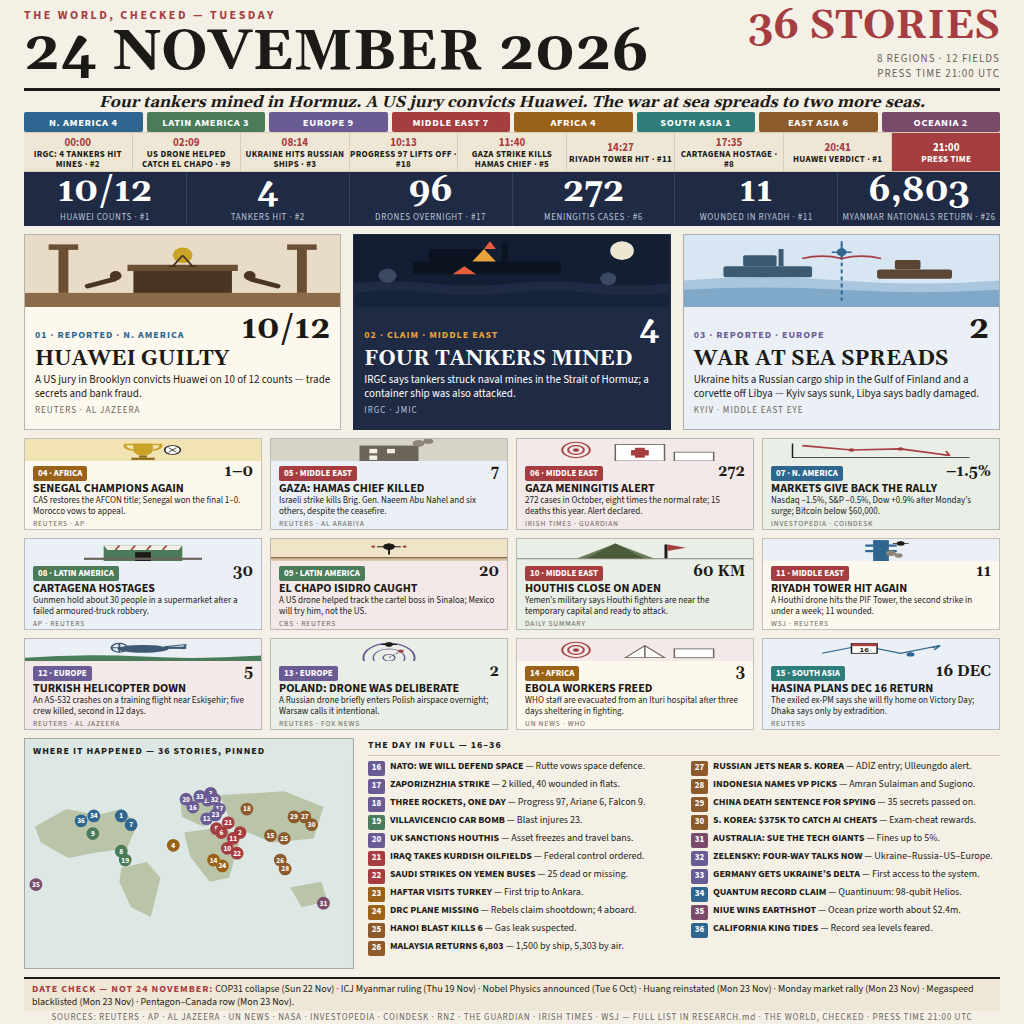
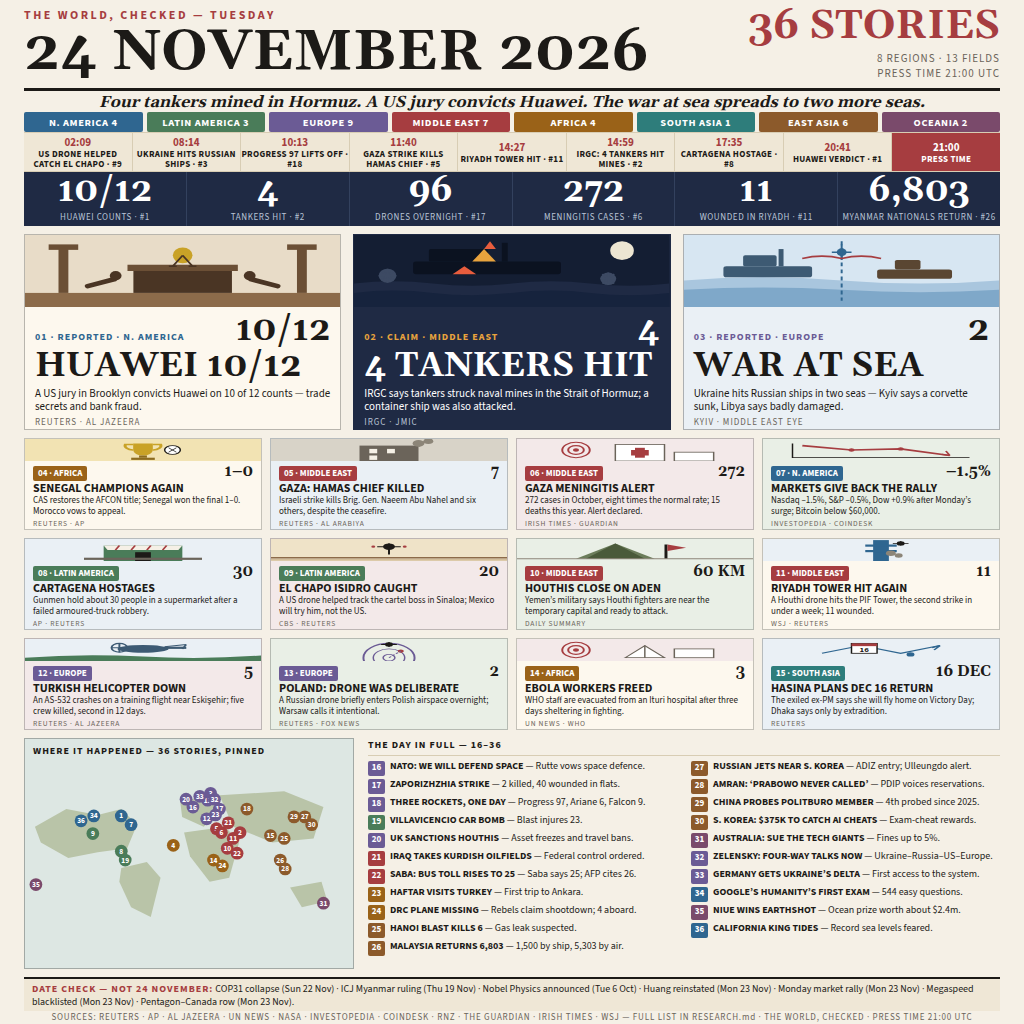
news-image-20261124 V1 PUTARAN 1: fix crosscheck FIX_FIRST — 4 stories re-dated to 24 Nov primaries, strip 14:59, 13 fields, lead headlines to 34px floor

diff --git a/render.html b/render.html
@@ -47,10 +47,10 @@ body{background:#fff}
 .tag{font-size:10px;font-weight:700;letter-spacing:1px}
 .tag.na{color:#2F6690}.tag.me{color:#A63D40}.tag.eu{color:#6B5B95}
 .dark .tag{color:#E8A33D}
-.lbig{font-size:32px;font-weight:700;line-height:1}
-.lh{font-family:'Gelasio',serif;font-weight:700;font-size:21px;line-height:1.05;margin-top:3px}
-.ls{font-size:11px;line-height:1.25;margin-top:3px}
-.lsrc{font-size:9px;color:#6B645A;letter-spacing:1px;margin-top:3px}
+.lbig{font-size:34px;font-weight:700;line-height:1}
+.lh{font-family:'Gelasio',serif;font-weight:700;font-size:34px;line-height:1.05;margin-top:2px}
+.ls{font-size:11px;line-height:1.25;margin-top:2px}
+.lsrc{font-size:9px;color:#6B645A;letter-spacing:1px;margin-top:2px}
 .dark .lsrc{color:#B9C4D6}
 /* feature grid */
 .grid{height:292px;display:grid;grid-template-columns:repeat(4,1fr);grid-template-rows:repeat(3,1fr);gap:8px;margin-top:8px}
@@ -86,7 +86,7 @@ body{background:#fff}
 <body><div class="sheet">
 <div class="head">
   <div><div class="kick">THE WORLD, CHECKED &mdash; TUESDAY</div><div class="dateline">24 NOVEMBER 2026</div></div>
-  <div class="right"><div class="storycount num">36 STORIES</div><div class="meta">8 REGIONS &middot; 12 FIELDS<br>PRESS TIME 21:00 UTC</div></div>
+  <div class="right"><div class="storycount num">36 STORIES</div><div class="meta">8 REGIONS &middot; 13 FIELDS<br>PRESS TIME 21:00 UTC</div></div>
 </div>
 <div class="tension">Four tankers mined in Hormuz. A US jury convicts Huawei. The war at sea spreads to two more seas.</div>
 <div class="regions">
@@ -100,12 +100,12 @@ body{background:#fff}
   <div class="reg" style="background:#7A4A6B">OCEANIA 2</div>
 </div>
 <div class="strip">
-  <div class="tl"><b>00:00</b><span>IRGC: 4 TANKERS HIT MINES &middot; #2</span></div>
   <div class="tl"><b>02:09</b><span>US DRONE HELPED CATCH EL CHAPO &middot; #9</span></div>
   <div class="tl"><b>08:14</b><span>UKRAINE HITS RUSSIAN SHIPS &middot; #3</span></div>
   <div class="tl"><b>10:13</b><span>PROGRESS 97 LIFTS OFF &middot; #18</span></div>
   <div class="tl"><b>11:40</b><span>GAZA STRIKE KILLS HAMAS CHIEF &middot; #5</span></div>
   <div class="tl"><b>14:27</b><span>RIYADH TOWER HIT &middot; #11</span></div>
+  <div class="tl"><b>14:59</b><span>IRGC: 4 TANKERS HIT MINES &middot; #2</span></div>
   <div class="tl"><b>17:35</b><span>CARTAGENA HOSTAGE &middot; #8</span></div>
   <div class="tl"><b>20:41</b><span>HUAWEI VERDICT &middot; #1</span></div>
   <div class="tl press"><b>21:00</b><span>PRESS TIME</span></div>
@@ -137,7 +137,7 @@ body{background:#fff}
     </svg></div>
     <div class="lbody">
       <div class="lrow"><span class="tag na">01 &middot; REPORTED &middot; N. AMERICA</span><span class="lbig num">10/12</span></div>
-      <div class="lh">HUAWEI GUILTY</div>
+      <div class="lh">HUAWEI 10/12</div>
       <div class="ls">A US jury in Brooklyn convicts Huawei on 10 of 12 counts &mdash; trade secrets and bank fraud.</div>
       <div class="lsrc">REUTERS &middot; AL JAZEERA</div>
     </div>
@@ -161,7 +161,7 @@ body{background:#fff}
     </svg></div>
     <div class="lbody">
       <div class="lrow"><span class="tag me">02 &middot; CLAIM &middot; MIDDLE EAST</span><span class="lbig num">4</span></div>
-      <div class="lh">FOUR TANKERS MINED</div>
+      <div class="lh">4 TANKERS HIT</div>
       <div class="ls">IRGC says tankers struck naval mines in the Strait of Hormuz; a container ship was also attacked.</div>
       <div class="lsrc">IRGC &middot; JMIC</div>
     </div>
@@ -183,8 +183,8 @@ body{background:#fff}
     </svg></div>
     <div class="lbody">
       <div class="lrow"><span class="tag eu">03 &middot; REPORTED &middot; EUROPE</span><span class="lbig num">2</span></div>
-      <div class="lh">WAR AT SEA SPREADS</div>
-      <div class="ls">Ukraine hits a Russian cargo ship in the Gulf of Finland and a corvette off Libya &mdash; Kyiv says sunk, Libya says badly damaged.</div>
+      <div class="lh">WAR AT SEA</div>
+      <div class="ls">Ukraine hits Russian ships in two seas &mdash; Kyiv says a corvette sunk, Libya says badly damaged.</div>
       <div class="lsrc">KYIV &middot; MIDDLE EAST EYE</div>
     </div>
   </div>
@@ -336,7 +336,7 @@ body{background:#fff}
         <div class="item"><span class="n" style="background:#4A7C59">19</span><div class="t"><b>VILLAVICENCIO CAR BOMB</b> &mdash; Blast injures 23.</div></div>
         <div class="item"><span class="n" style="background:#6B5B95">20</span><div class="t"><b>UK SANCTIONS HOUTHIS</b> &mdash; Asset freezes and travel bans.</div></div>
         <div class="item"><span class="n" style="background:#A63D40">21</span><div class="t"><b>IRAQ TAKES KURDISH OILFIELDS</b> &mdash; Federal control ordered.</div></div>
-        <div class="item"><span class="n" style="background:#A63D40">22</span><div class="t"><b>SAUDI STRIKES ON YEMEN BUSES</b> &mdash; 25 dead or missing.</div></div>
+        <div class="item"><span class="n" style="background:#A63D40">22</span><div class="t"><b>SABA: BUS TOLL RISES TO 25</b> &mdash; Saba says 25; AFP cites 26.</div></div>
         <div class="item"><span class="n" style="background:#9A6218">23</span><div class="t"><b>HAFTAR VISITS TURKEY</b> &mdash; First trip to Ankara.</div></div>
         <div class="item"><span class="n" style="background:#9A6218">24</span><div class="t"><b>DRC PLANE MISSING</b> &mdash; Rebels claim shootdown; 4 aboard.</div></div>
         <div class="item"><span class="n" style="background:#8C5A2B">25</span><div class="t"><b>HANOI BLAST KILLS 6</b> &mdash; Gas leak suspected.</div></div>
@@ -344,13 +344,13 @@ body{background:#fff}
       </div>
       <div class="col">
         <div class="item"><span class="n" style="background:#8C5A2B">27</span><div class="t"><b>RUSSIAN JETS NEAR S. KOREA</b> &mdash; ADIZ entry; Ulleungdo alert.</div></div>
-        <div class="item"><span class="n" style="background:#8C5A2B">28</span><div class="t"><b>INDONESIA NAMES VP PICKS</b> &mdash; Amran Sulaiman and Sugiono.</div></div>
-        <div class="item"><span class="n" style="background:#8C5A2B">29</span><div class="t"><b>CHINA DEATH SENTENCE FOR SPYING</b> &mdash; 35 secrets passed on.</div></div>
+        <div class="item"><span class="n" style="background:#8C5A2B">28</span><div class="t"><b>AMRAN: &lsquo;PRABOWO NEVER CALLED&rsquo;</b> &mdash; PDIP voices reservations.</div></div>
+        <div class="item"><span class="n" style="background:#8C5A2B">29</span><div class="t"><b>CHINA PROBES POLITBURO MEMBER</b> &mdash; 4th probed since 2025.</div></div>
         <div class="item"><span class="n" style="background:#8C5A2B">30</span><div class="t"><b>S. KOREA: $375K TO CATCH AI CHEATS</b> &mdash; Exam-cheat rewards.</div></div>
         <div class="item"><span class="n" style="background:#7A4A6B">31</span><div class="t"><b>AUSTRALIA: SUE THE TECH GIANTS</b> &mdash; Fines up to 5%.</div></div>
         <div class="item"><span class="n" style="background:#6B5B95">32</span><div class="t"><b>ZELENSKY: FOUR-WAY TALKS NOW</b> &mdash; Ukraine&ndash;Russia&ndash;US&ndash;Europe.</div></div>
         <div class="item"><span class="n" style="background:#6B5B95">33</span><div class="t"><b>GERMANY GETS UKRAINE&rsquo;S DELTA</b> &mdash; First access to the system.</div></div>
-        <div class="item"><span class="n" style="background:#2F6690">34</span><div class="t"><b>QUANTUM RECORD CLAIM</b> &mdash; Quantinuum: 98-qubit Helios.</div></div>
+        <div class="item"><span class="n" style="background:#2F6690">34</span><div class="t"><b>GOOGLE&rsquo;S HUMANITY&rsquo;S FIRST EXAM</b> &mdash; 544 easy questions.</div></div>
         <div class="item"><span class="n" style="background:#7A4A6B">35</span><div class="t"><b>NIUE WINS EARTHSHOT</b> &mdash; Ocean prize worth about $2.4m.</div></div>
         <div class="item"><span class="n" style="background:#2F6690">36</span><div class="t"><b>CALIFORNIA KING TIDES</b> &mdash; Record sea levels feared.</div></div>
       </div>

diff --git a/RESEARCH.md b/RESEARCH.md
@@ -26,11 +26,11 @@ Monday's rally (Nasdaq −1.5%, Bitcoin below $60,000). Press time: 21:00 UTC.
 ## Breadth
 36 stories: 3 leads + 12 feature cards + 21 numbered list items. 8 regions
 (N. America 4, Latin America 3, Europe 9, Middle East 7, Africa 4, South
-Asia 1, East Asia 6, Oceania 2) and 12 fields (War 10, Politics 7, Courts 3,
-Business 1, Tech 3, Space 2, Health 2, Climate 2, Sport 1, Disaster 3,
-Crime 3, Migration 1). Numbers band: 10/12 (#1), 4 (#2), 96 drones overnight
+Asia 1, East Asia 6, Oceania 2) and 13 fields (War 10, Politics 7, Courts 1,
+Business 1, Tech 3, Space 1, Health 2, Climate 2, Sport 1, Disaster 3,
+Crime 3, Migration 1, Security 1). Numbers band: 10/12 (#1), 4 (#2), 96 drones overnight
 (#17), 272 meningitis cases (#6), 11 wounded in Riyadh (#11), 6,803 Myanmar
-nationals to return (#26). UTC timeline: 8 events from 00:00 to 20:41,
+nationals to return (#26). UTC timeline: 8 events from 02:09 to 20:41,
 press time 21:00 UTC.
 
 ## What was left out (DATE CHECK)
@@ -41,15 +41,22 @@ Nasdaq +6.5%) Monday 23 Nov. US blacklists Megaspeed Monday 23 Nov. Pentagon
 rebukes Canada Monday 23 Nov. El Chapo Isidro captured Friday 20 Nov (the
 drone role and Mexico's trial decision were reported Tuesday). Bukele names
 3 soldiers killed in Haiti Sunday 23 Nov. Murmansk governor arrested Monday
-23 Nov. Trump death-penalty directive Monday 23 Nov.
+23 Nov. Trump death-penalty directive Monday 23 Nov. China death sentence
+for spying (official Ma) announced Monday 23 Nov. Quantinuum Helios
+error-correction record announced 19 Oct 2026. The Lahj bus strike itself
+Monday 23 Nov (only Saba's Tuesday toll update is in the image). The
+Indonesia VP names read out Monday 23 Nov evening (only Tuesday reactions
+are in the image).
 
 ## Sources (primary, dated 24 Nov 2026; full list in notes/sumber.md)
 Reuters, AP, Al Jazeera, UN News, WHO, NASAspaceflight, ESA, Investopedia,
 CoinDesk, RNZ, The Guardian, Irish Times, WSJ, Just Security Early Edition,
-The Hindu BusinessLine, China Daily Asia. Digest-only items (flagged in the
-notes): Haftar's Turkey visit, the missing DRC plane, Saudi strikes on Yemen
-buses (Saba), the China spying death sentence (Gold Wall Press), the
-Quantinuum quantum claim, Indonesia's VP picks (names public Tuesday).
+The Hindu BusinessLine, China Daily Asia. Items still sourced from a daily
+digest plus one secondary outlet (flagged in the notes): NATO's space vow,
+Iraq's Kurdish oilfields order, Zelensky's four-way talks call, Germany's
+Delta access. The DRC plane is now sourced to the BBC (24 Nov); the Saba
+toll, the Amran/PDIP reactions, the Chen Jining probe and the DeepMind exam
+are all sourced to primaries dated 24 Nov.
 
 ## Fonts
 Gelasio (serif, headlines and numbers) and Source Sans 3 (sans, body), both
